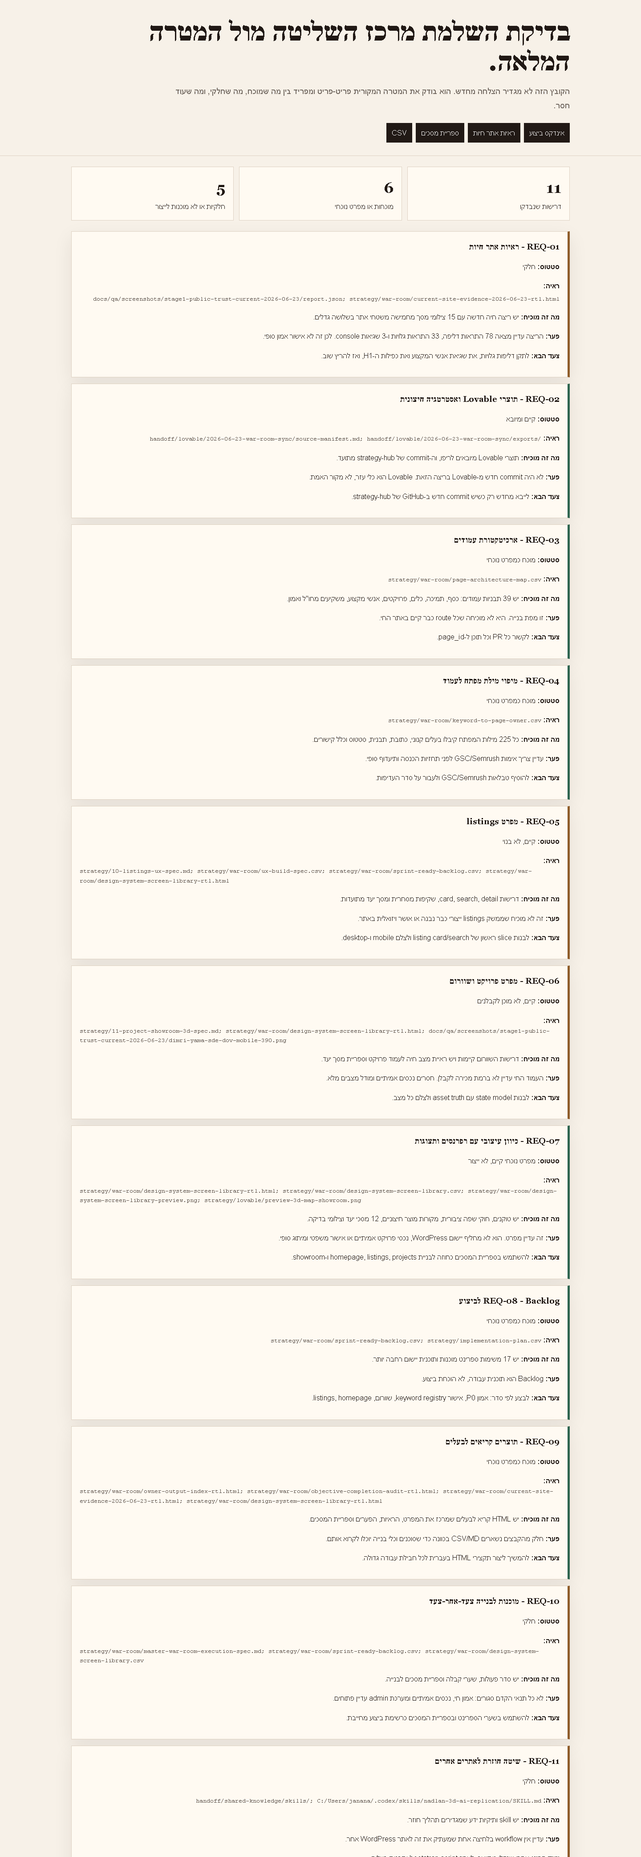
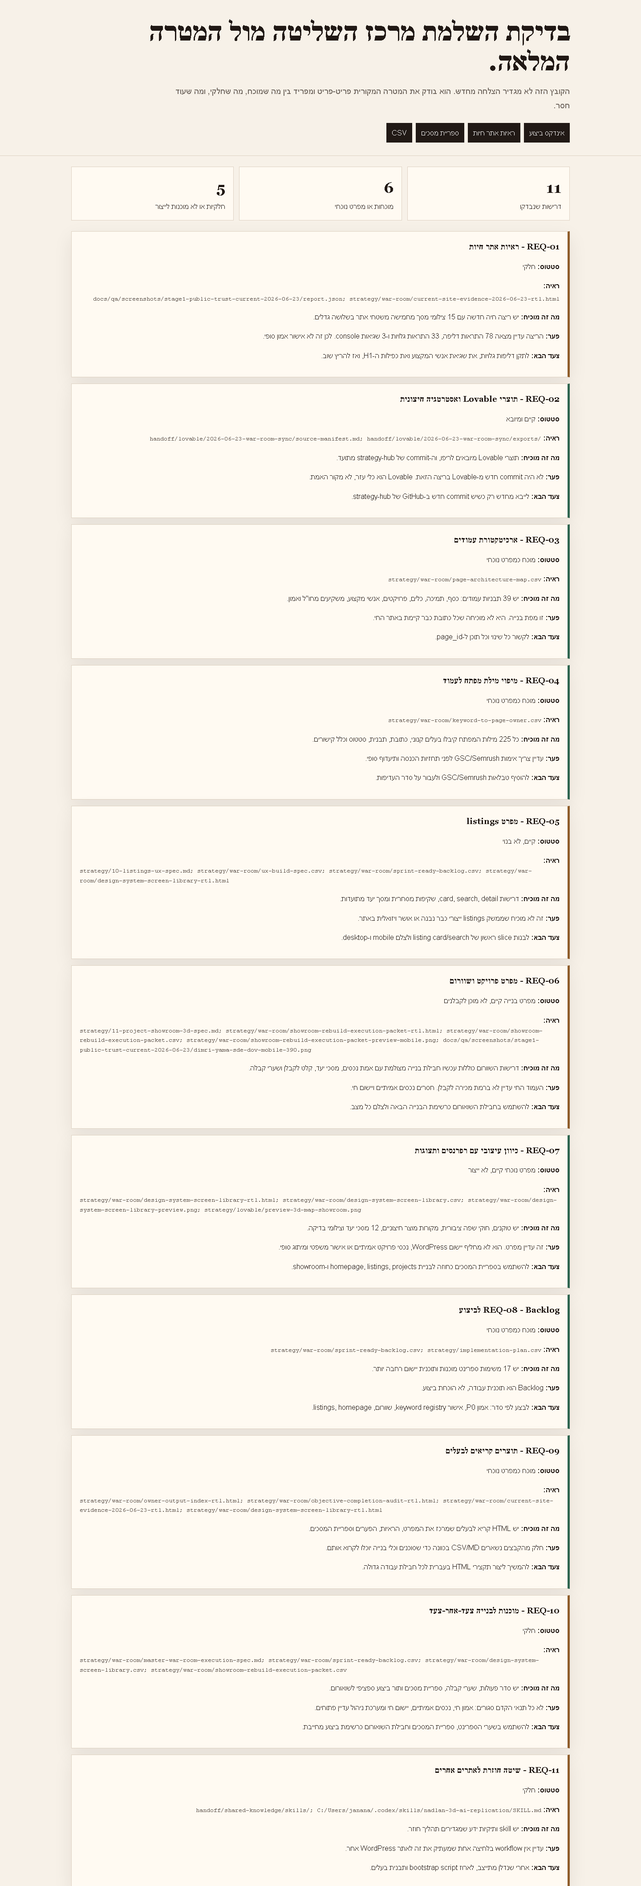
docs: add showroom rebuild execution packet

diff --git a/strategy/war-room/objective-completion-audit-rtl.html b/strategy/war-room/objective-completion-audit-rtl.html
@@ -1,11 +1,12 @@
-<!doctype html><html lang="he" dir="rtl"><head><meta charset="utf-8"><meta name="viewport" content="width=device-width, initial-scale=1"><title>בדיקת השלמת מרכז השליטה</title><style>:root{--paper:#f7f1e8;--ink:#211915;--muted:#746b63;--line:#ded2c3;--card:#fffaf2;--ok:#2f654f;--warn:#8f5d2a}*{box-sizing:border-box}body{margin:0;background:var(--paper);color:var(--ink);font-family:Arial,'Noto Sans Hebrew',sans-serif;line-height:1.65}.wrap{width:min(1120px,calc(100% - 28px));margin:auto}header{padding:36px 0 24px;border-bottom:1px solid var(--line)}h1{font-family:Georgia,'Times New Roman',serif;font-size:clamp(34px,5vw,64px);line-height:1.05;margin:0 0 14px}.lead{color:var(--muted);font-size:19px;max-width:920px}.summary{display:grid;grid-template-columns:repeat(3,1fr);gap:12px;margin:24px 0}.box{background:var(--card);border:1px solid var(--line);padding:18px}.box b{font-size:34px;font-family:Georgia,'Times New Roman',serif}.req{background:var(--card);border:1px solid var(--line);padding:18px;margin:14px 0;box-shadow:0 14px 40px rgba(44,31,20,.08)}.req.ok{border-inline-start:5px solid var(--ok)}.req.warn{border-inline-start:5px solid var(--warn)}h2,h3{font-family:Georgia,'Times New Roman',serif;margin:0 0 10px}code{direction:ltr;unicode-bidi:embed;display:inline-block;max-width:100%;overflow-wrap:anywhere;color:#5f554e}.links a{display:inline-block;background:#211915;color:#fff;padding:9px 12px;margin:5px 0 5px 8px;text-decoration:none}@media(max-width:760px){.summary{grid-template-columns:1fr}}</style></head><body><header><div class="wrap"><h1>בדיקת השלמת מרכז השליטה מול המטרה המלאה.</h1><p class="lead">הקובץ הזה לא מגדיר הצלחה מחדש. הוא בודק את המטרה המקורית פריט-פריט ומפריד בין מה שמוכח, מה שחלקי, ומה שעוד חסר.</p><div class="links"><a href="owner-output-index-rtl.html">אינדקס ביצוע</a><a href="current-site-evidence-2026-06-23-rtl.html">ראיות אתר חיות</a><a href="design-system-screen-library-rtl.html">ספריית מסכים</a><a href="objective-completion-audit.csv">CSV</a></div></div></header><main class="wrap"><div class="summary"><div class="box"><b>11</b><br>דרישות שנבדקו</div><div class="box"><b>6</b><br>מוכחות או מפרט נוכחי</div><div class="box"><b>5</b><br>חלקיות או לא מוכנות לייצור</div></div><article class='req warn'><h3>REQ-01 - ראיות אתר חיות</h3><p><b>סטטוס:</b> חלקי</p><p><b>ראיה:</b> <code>docs/qa/screenshots/stage1-public-trust-current-2026-06-23/report.json; strategy/war-room/current-site-evidence-2026-06-23-rtl.html</code></p><p><b>מה זה מוכיח:</b> יש ריצה חיה חדשה עם 15 צילומי מסך מחמישה משטחי אתר בשלושה גדלים.</p><p><b>פער:</b> הריצה עדיין מצאה 78 התראות דליפה, 33 התראות גלויות ו-3 שגיאות console. לכן זה לא אישור אמון סופי.</p><p><b>צעד הבא:</b> לתקן דליפות גלויות, את שגיאת אנשי המקצוע ואת כפילות ה-H1, ואז להריץ שוב.</p></article>
+<!doctype html><html lang="he" dir="rtl"><head><meta charset="utf-8"><meta name="viewport" content="width=device-width, initial-scale=1"><title>בדיקת השלמת מרכז השליטה</title><style>:root{--paper:#f7f1e8;--ink:#211915;--muted:#746b63;--line:#ded2c3;--card:#fffaf2;--ok:#2f654f;--warn:#8f5d2a}*{box-sizing:border-box}body{margin:0;background:var(--paper);color:var(--ink);font-family:Arial,'Noto Sans Hebrew',sans-serif;line-height:1.65}.wrap{width:min(1120px,calc(100% - 28px));margin:auto}header{padding:36px 0 24px;border-bottom:1px solid var(--line)}h1{font-family:Georgia,'Times New Roman',serif;font-size:clamp(34px,5vw,64px);line-height:1.05;margin:0 0 14px}.intro{color:var(--muted);font-size:19px;max-width:920px}.summary{display:grid;grid-template-columns:repeat(3,1fr);gap:12px;margin:24px 0}.box{background:var(--card);border:1px solid var(--line);padding:18px}.box b{font-size:34px;font-family:Georgia,'Times New Roman',serif}.req{background:var(--card);border:1px solid var(--line);padding:18px;margin:14px 0;box-shadow:0 14px 40px rgba(44,31,20,.08)}.req.ok{border-inline-start:5px solid var(--ok)}.req.warn{border-inline-start:5px solid var(--warn)}h2,h3{font-family:Georgia,'Times New Roman',serif;margin:0 0 10px}code{direction:ltr;unicode-bidi:embed;display:inline-block;max-width:100%;overflow-wrap:anywhere;color:#5f554e}.links a{display:inline-block;background:#211915;color:#fff;padding:9px 12px;margin:5px 0 5px 8px;text-decoration:none}@media(max-width:760px){.summary{grid-template-columns:1fr}}</style></head><body><header><div class="wrap"><h1>בדיקת השלמת מרכז השליטה מול המטרה המלאה.</h1><p class="intro">הקובץ הזה לא מגדיר הצלחה מחדש. הוא בודק את המטרה המקורית פריט-פריט ומפריד בין מה שמוכח, מה שחלקי, ומה שעוד חסר.</p><div class="links"><a href="owner-output-index-rtl.html">אינדקס ביצוע</a><a href="current-site-evidence-2026-06-23-rtl.html">ראיות אתר חיות</a><a href="design-system-screen-library-rtl.html">ספריית מסכים</a><a href="objective-completion-audit.csv">CSV</a></div></div></header><main class="wrap"><div class="summary"><div class="box"><b>11</b><br>דרישות שנבדקו</div><div class="box"><b>6</b><br>מוכחות או מפרט נוכחי</div><div class="box"><b>5</b><br>חלקיות או לא מוכנות לייצור</div></div><article class='req warn'><h3>REQ-01 - ראיות אתר חיות</h3><p><b>סטטוס:</b> חלקי</p><p><b>ראיה:</b> <code>docs/qa/screenshots/stage1-public-trust-current-2026-06-23/report.json; strategy/war-room/current-site-evidence-2026-06-23-rtl.html</code></p><p><b>מה זה מוכיח:</b> יש ריצה חיה חדשה עם 15 צילומי מסך מחמישה משטחי אתר בשלושה גדלים.</p><p><b>פער:</b> הריצה עדיין מצאה 78 התראות דליפה, 33 התראות גלויות ו-3 שגיאות console. לכן זה לא אישור אמון סופי.</p><p><b>צעד הבא:</b> לתקן דליפות גלויות, את שגיאת אנשי המקצוע ואת כפילות ה-H1, ואז להריץ שוב.</p></article>
 <article class='req ok'><h3>REQ-02 - תוצרי Lovable ואסטרטגיה חיצונית</h3><p><b>סטטוס:</b> קיים ומיובא</p><p><b>ראיה:</b> <code>handoff/lovable/2026-06-23-war-room-sync/source-manifest.md; handoff/lovable/2026-06-23-war-room-sync/exports/</code></p><p><b>מה זה מוכיח:</b> תוצרי Lovable מיובאים לריפו, וה-commit של strategy-hub מתועד.</p><p><b>פער:</b> לא היה commit חדש מ-Lovable בריצה הזאת. Lovable הוא כלי עזר, לא מקור האמת.</p><p><b>צעד הבא:</b> לייבא מחדש רק כשיש commit חדש ב-GitHub של strategy-hub.</p></article>
-<article class='req ok'><h3>REQ-03 - ארכיטקטורת עמודים</h3><p><b>סטטוס:</b> מוכח כמפרט נוכחי</p><p><b>ראיה:</b> <code>strategy/war-room/page-architecture-map.csv</code></p><p><b>מה זה מוכיח:</b> יש 39 תבניות עמודים: כסף, תמיכה, כלים, פרויקטים, אנשי מקצוע, משקיעים מחו&quot;ל ואמון.</p><p><b>פער:</b> זו מפת בנייה. היא לא מוכיחה שכל route כבר קיים באתר החי.</p><p><b>צעד הבא:</b> לקשור כל PR וכל תוכן ל-page_id.</p></article>
+<article class='req ok'><h3>REQ-03 - ארכיטקטורת עמודים</h3><p><b>סטטוס:</b> מוכח כמפרט נוכחי</p><p><b>ראיה:</b> <code>strategy/war-room/page-architecture-map.csv</code></p><p><b>מה זה מוכיח:</b> יש 39 תבניות עמודים: כסף, תמיכה, כלים, פרויקטים, אנשי מקצוע, משקיעים מחו&quot;ל ואמון.</p><p><b>פער:</b> זו מפת בנייה. היא לא מוכיחה שכל כתובת כבר קיימת באתר החי.</p><p><b>צעד הבא:</b> לקשור כל שינוי וכל תוכן ל-page_id.</p></article>
 <article class='req ok'><h3>REQ-04 - מיפוי מילת מפתח לעמוד</h3><p><b>סטטוס:</b> מוכח כמפרט נוכחי</p><p><b>ראיה:</b> <code>strategy/war-room/keyword-to-page-owner.csv</code></p><p><b>מה זה מוכיח:</b> כל 225 מילות המפתח קיבלו בעלים קנוני, כתובת, תבנית, סטטוס וכלל קישורים.</p><p><b>פער:</b> עדיין צריך אימות GSC/Semrush לפני תחזיות הכנסה ותיעדוף סופי.</p><p><b>צעד הבא:</b> להוסיף טבלאות GSC/Semrush ולעבור על סדר העדיפות.</p></article>
 <article class='req warn'><h3>REQ-05 - מפרט listings</h3><p><b>סטטוס:</b> קיים, לא בנוי</p><p><b>ראיה:</b> <code>strategy/10-listings-ux-spec.md; strategy/war-room/ux-build-spec.csv; strategy/war-room/sprint-ready-backlog.csv; strategy/war-room/design-system-screen-library-rtl.html</code></p><p><b>מה זה מוכיח:</b> דרישות card, search, detail, שקיפות מסחרית ומסך יעד מתועדות.</p><p><b>פער:</b> זה לא מוכיח שממשק listings ייצורי כבר נבנה או אושר ויזואלית באתר.</p><p><b>צעד הבא:</b> לבנות slice ראשון של listing card/search ולצלם mobile ו-desktop.</p></article>
-<article class='req warn'><h3>REQ-06 - מפרט פרויקט ושוורום</h3><p><b>סטטוס:</b> קיים, לא מוכן לקבלנים</p><p><b>ראיה:</b> <code>strategy/11-project-showroom-3d-spec.md; strategy/war-room/design-system-screen-library-rtl.html; docs/qa/screenshots/stage1-public-trust-current-2026-06-23/dimri-yama-sde-dov-mobile-390.png</code></p><p><b>מה זה מוכיח:</b> דרישות השוורום קיימות ויש ראיית מצב חיה לעמוד פרויקט וספריית מסך יעד.</p><p><b>פער:</b> העמוד החי עדיין לא ברמת מכירה לקבלן. חסרים נכסים אמיתיים ומודל מצבים מלא.</p><p><b>צעד הבא:</b> לבנות state model עם asset truth ולצלם כל מצב.</p></article>
+<article class='req warn'><h3>REQ-06 - מפרט פרויקט ושוורום</h3><p><b>סטטוס:</b> מפרט בנייה קיים, לא מוכן לקבלנים</p><p><b>ראיה:</b> <code>strategy/11-project-showroom-3d-spec.md; strategy/war-room/showroom-rebuild-execution-packet-rtl.html; strategy/war-room/showroom-rebuild-execution-packet.csv; strategy/war-room/showroom-rebuild-execution-packet-preview-mobile.png; docs/qa/screenshots/stage1-public-trust-current-2026-06-23/dimri-yama-sde-dov-mobile-390.png</code></p><p><b>מה זה מוכיח:</b> דרישות השוורום כוללות עכשיו חבילת בנייה מצולמת עם אמת נכסים, מסכי יעד, קלט לקבלן ושערי קבלה.</p><p><b>פער:</b> העמוד החי עדיין לא ברמת מכירה לקבלן. חסרים נכסים אמיתיים ויישום חי.</p><p><b>צעד הבא:</b> להשתמש בחבילת השואורום כרשימת הבנייה הבאה ולצלם כל מצב.</p></article>
 <article class='req ok'><h3>REQ-07 - כיוון עיצובי עם רפרנסים ותצוגות</h3><p><b>סטטוס:</b> מפרט נוכחי קיים, לא ייצור</p><p><b>ראיה:</b> <code>strategy/war-room/design-system-screen-library-rtl.html; strategy/war-room/design-system-screen-library.csv; strategy/war-room/design-system-screen-library-preview.png; strategy/lovable/preview-3d-map-showroom.png</code></p><p><b>מה זה מוכיח:</b> יש טוקנים, חוקי שפה ציבורית, מקורות מוצר חיצוניים, 12 מסכי יעד וצילומי בדיקה.</p><p><b>פער:</b> זה עדיין מפרט. הוא לא מחליף יישום WordPress, נכסי פרויקט אמיתיים או אישור משפטי ומיתוג סופי.</p><p><b>צעד הבא:</b> להשתמש בספריית המסכים כחוזה לבניית homepage, listings, projects ו-showroom.</p></article>
 <article class='req ok'><h3>REQ-08 - Backlog לביצוע</h3><p><b>סטטוס:</b> מוכח כמפרט נוכחי</p><p><b>ראיה:</b> <code>strategy/war-room/sprint-ready-backlog.csv; strategy/implementation-plan.csv</code></p><p><b>מה זה מוכיח:</b> יש 17 משימות ספרינט מוכנות ותוכנית יישום רחבה יותר.</p><p><b>פער:</b> Backlog הוא תוכנית עבודה, לא הוכחת ביצוע.</p><p><b>צעד הבא:</b> לבצע לפי סדר: אמון P0, אישור keyword registry, שוורום, listings, homepage.</p></article>
 <article class='req ok'><h3>REQ-09 - תוצרים קריאים לבעלים</h3><p><b>סטטוס:</b> מוכח כמפרט נוכחי</p><p><b>ראיה:</b> <code>strategy/war-room/owner-output-index-rtl.html; strategy/war-room/objective-completion-audit-rtl.html; strategy/war-room/current-site-evidence-2026-06-23-rtl.html; strategy/war-room/design-system-screen-library-rtl.html</code></p><p><b>מה זה מוכיח:</b> יש HTML קריא לבעלים שמרכז את המפרט, הראיות, הפערים וספריית המסכים.</p><p><b>פער:</b> חלק מהקבצים נשארים CSV/MD בכוונה כדי שסוכנים וכלי בנייה יוכלו לקרוא אותם.</p><p><b>צעד הבא:</b> להמשיך ליצור תקצירי HTML בעברית לכל חבילת עבודה גדולה.</p></article>
-<article class='req warn'><h3>REQ-10 - מוכנות לבנייה צעד-אחר-צעד</h3><p><b>סטטוס:</b> חלקי</p><p><b>ראיה:</b> <code>strategy/war-room/master-war-room-execution-spec.md; strategy/war-room/sprint-ready-backlog.csv; strategy/war-room/design-system-screen-library.csv</code></p><p><b>מה זה מוכיח:</b> יש סדר פעולות, שערי קבלה וספריית מסכים לבנייה.</p><p><b>פער:</b> לא כל תנאי הקדם סגורים: אמון חי, נכסים אמיתיים ומערכת admin עדיין פתוחים.</p><p><b>צעד הבא:</b> להשתמש בשערי הספרינט ובספריית המסכים כרשימת ביצוע מחייבת.</p></article>
+<article class='req warn'><h3>REQ-10 - מוכנות לבנייה צעד-אחר-צעד</h3><p><b>סטטוס:</b> חלקי</p><p><b>ראיה:</b> <code>strategy/war-room/master-war-room-execution-spec.md; strategy/war-room/sprint-ready-backlog.csv; strategy/war-room/design-system-screen-library.csv; strategy/war-room/showroom-rebuild-execution-packet.csv</code></p><p><b>מה זה מוכיח:</b> יש סדר פעולות, שערי קבלה, ספריית מסכים ותור ביצוע ספציפי לשואורום.</p><p><b>פער:</b> לא כל תנאי הקדם סגורים: אמון חי, נכסים אמיתיים, יישום חי ומערכת ניהול עדיין פתוחים.</p><p><b>צעד הבא:</b> להשתמש בשערי הספרינט, ספריית המסכים וחבילת השואורום כרשימת ביצוע מחייבת.</p></article>
 <article class='req warn'><h3>REQ-11 - שיטה חוזרת לאתרים אחרים</h3><p><b>סטטוס:</b> חלקי</p><p><b>ראיה:</b> <code>handoff/shared-knowledge/skills/; C:/Users/janana/.codex/skills/nadlan-3d-ai-replication/SKILL.md</code></p><p><b>מה זה מוכיח:</b> יש skill ותיקיות ידע שמגדירים תהליך חוזר.</p><p><b>פער:</b> עדיין אין workflow בלחיצה אחת שמעתיק את זה לאתר WordPress אחר.</p><p><b>צעד הבא:</b> אחרי שנדלן מתייצב, לארוז bootstrap script ותבנית בעלים.</p></article></main></body></html>
+

diff --git a/strategy/war-room/showroom-rebuild-execution-packet-rtl.html b/strategy/war-room/showroom-rebuild-execution-packet-rtl.html
@@ -1,0 +1,193 @@
+<!doctype html>
+<html lang="he" dir="rtl">
+<head>
+  <meta charset="utf-8">
+  <meta name="viewport" content="width=device-width, initial-scale=1">
+  <title>NadLan - חבילת בנייה לשואורום פרויקט</title>
+  <style>
+    :root{
+      --paper:#f7f1e8;
+      --panel:#fffaf2;
+      --ink:#211915;
+      --muted:#74685f;
+      --line:#e2d6c7;
+      --green:#0f332c;
+      --gold:#a7793b;
+      --red:#8f2e24;
+      --soft:#efe5d7;
+    }
+    *{box-sizing:border-box}
+    body{margin:0;background:var(--paper);color:var(--ink);font-family:Arial,"Noto Sans Hebrew",sans-serif;line-height:1.75}
+    .wrap{max-width:1180px;margin:0 auto;padding:42px 24px 72px}
+    header{padding:48px 0 34px;border-bottom:1px solid var(--line);text-align:center}
+    .eyebrow{font-size:13px;color:var(--gold);font-weight:700;letter-spacing:0}
+    h1{font-family:Georgia,"Times New Roman",serif;font-size:clamp(34px,6vw,76px);line-height:1.02;margin:18px 0 16px;letter-spacing:0}
+    h2{font-family:Georgia,"Times New Roman",serif;font-size:clamp(26px,3vw,42px);line-height:1.16;margin:0 0 18px;letter-spacing:0}
+    h3{font-size:20px;margin:0 0 10px}
+    p{margin:0 0 14px}
+    a{color:var(--green);font-weight:700}
+    .intro{max-width:820px;margin:0 auto;color:var(--muted);font-size:18px}
+    .stats{display:grid;grid-template-columns:repeat(4,1fr);gap:12px;margin:28px 0}
+    .stat{background:var(--panel);border:1px solid var(--line);padding:20px;text-align:center}
+    .stat strong{display:block;font-family:Georgia,"Times New Roman",serif;font-size:38px}
+    section{margin-top:28px;background:var(--panel);border:1px solid var(--line);padding:28px}
+    .grid{display:grid;grid-template-columns:1fr 1fr;gap:18px}
+    .three{display:grid;grid-template-columns:repeat(3,1fr);gap:18px}
+    .card{background:#fffdf8;border:1px solid var(--line);padding:20px;min-height:100%}
+    .ok{border-right:5px solid var(--green)}
+    .warn{border-right:5px solid var(--gold)}
+    .bad{border-right:5px solid var(--red)}
+    .shot{background:#fff;border:1px solid var(--line);padding:12px}
+    .shot img{display:block;width:100%;height:auto;border:1px solid var(--line);background:#f4eadc}
+    .shot img.crop{height:620px;object-fit:cover;object-position:top}
+    .caption{font-size:14px;color:var(--muted);margin-top:10px}
+    .decision{display:grid;grid-template-columns:1.2fr .8fr;gap:22px;align-items:start}
+    .flow{display:grid;grid-template-columns:repeat(5,1fr);gap:10px;margin-top:14px}
+    .step{border:1px solid var(--line);background:var(--soft);padding:14px;min-height:112px}
+    .step b{display:block;color:var(--green);margin-bottom:6px}
+    table{width:100%;border-collapse:collapse;background:#fffdf8}
+    th,td{border:1px solid var(--line);padding:12px;text-align:right;vertical-align:top}
+    th{background:var(--soft);font-weight:800}
+    .pill{display:inline-block;border:1px solid var(--line);background:#fffdf8;padding:5px 9px;margin:3px;font-size:13px}
+    .source-list{display:grid;grid-template-columns:repeat(3,1fr);gap:10px}
+    .source-list a{display:block;border:1px solid var(--line);background:#fffdf8;padding:12px;text-decoration:none}
+    .small{font-size:14px;color:var(--muted)}
+    @media(max-width:760px){
+      .wrap{padding:24px 16px 48px}
+      header{text-align:right;padding-top:28px}
+      .stats,.grid,.three,.decision,.flow,.source-list{grid-template-columns:1fr}
+      section{padding:18px}
+      .step{min-height:auto}
+      table{font-size:14px}
+      th,td{padding:9px}
+      .shot img.crop{height:760px}
+      table,thead,tbody,tr,td{display:block;width:100%}
+      thead{display:none}
+      tr{margin-bottom:12px;border:1px solid var(--line);background:#fffdf8}
+      td{border:0;border-bottom:1px solid var(--line)}
+      td:last-child{border-bottom:0}
+      td[data-label]::before{content:attr(data-label);display:block;font-weight:800;color:var(--green);margin-bottom:4px}
+    }
+  </style>
+</head>
+<body>
+  <div class="wrap">
+    <header>
+      <div class="eyebrow">2026-06-23 - NadLan - שואורום פרויקטים</div>
+      <h1>חבילת בנייה לשואורום שמוכר פרויקט, לא דמו.</h1>
+      <p class="intro">המטרה היא להפוך את השואורום למוצר שאפשר להראות לקבלן ולמשקיע: נכסים אמיתיים, מסע בחירת דירה, נוף, תכנון, סיור פנים, פנייה מסודרת, ושפה ציבורית נקייה. מה שאין לו מקור מאושר מוצג כחסר או כקונספט, לא כעובדה.</p>
+    </header>
+
+    <div class="stats">
+      <div class="stat"><strong>12</strong><span>שורות ביצוע</span></div>
+      <div class="stat"><strong>7</strong><span>מצבי צילום חובה</span></div>
+      <div class="stat"><strong>5</strong><span>טאבים לדירה</span></div>
+      <div class="stat"><strong>390</strong><span>שער מובייל</span></div>
+    </div>
+
+    <section>
+      <h2>מה ראינו בצילומים</h2>
+      <div class="grid">
+        <div class="shot">
+          <img class="crop" src="../../docs/qa/screenshots/stage1-public-trust-current-2026-06-23/dimri-yama-sde-dov-desktop-1440.png" alt="צילום חי של עמוד דימרי ימה">
+          <p class="caption">עמוד חי, חיתוך עליון של צילום מלא: יש עומק, תוכן וטפסים, אבל אזור השואורום עדיין מרגיש כמו מודול כבד ולא כמו חוויית מכירה מדויקת.</p>
+        </div>
+        <div class="shot">
+          <img class="crop" src="../../handoff/codex/2026-06-23-public-language-cleanup/screenshots/showroom-rainbow--he--desktop-1440.png" alt="צילום prototype אחרי ניקוי שפה">
+          <p class="caption">אב הטיפוס נקי יותר מבחינת שפה, אבל החזית סכמטית והמותג חלש. זה טוב כהוכחת מבנה, לא כמשטח מכירה לקבלן.</p>
+        </div>
+      </div>
+    </section>
+
+    <section>
+      <h2>החלטת מוצר</h2>
+      <div class="decision">
+        <div class="card ok">
+          <h3>הקו המחייב</h3>
+          <p>השואורום מציג רק אחד מארבעה מצבים ברורים: נכס רשמי, הדמיית קונספט מאושרת, מצב חסר נכסים, או מצב תקלה נקי. אין חזרה שקטה למגדל סכמטי, אין תמונות לא קשורות, ואין טענה שמידע הוא רשמי אם הוא לא.</p>
+          <span class="pill">הדמיה רשמית</span>
+          <span class="pill">הדמיית קונספט</span>
+          <span class="pill">ממתין להעלאה</span>
+          <span class="pill">לא זמין כרגע</span>
+        </div>
+        <div class="card bad">
+          <h3>מה לא עובר הלאה</h3>
+          <p>לא מעבירים למסך ציבורי מונחי קבצים, שמות פונטים, שפת בנייה, תגיות דירוג פנימיות, או תמונות שנראות כמו מלאי כללי. אם אין תמונת פרויקט אמיתית, עדיף מצב חסר אלגנטי מאשר תמונה מטעה.</p>
+        </div>
+      </div>
+    </section>
+
+    <section>
+      <h2>מסע השואורום החדש</h2>
+      <div class="flow">
+        <div class="step"><b>01 זהות</b>שם פרויקט, עיר, יזם, מקור, משפט אמינות קצר ופעולה ראשית אחת.</div>
+        <div class="step"><b>02 במה חזותית</b>מודל או חזית אמיתית. אם אין, מצב העלאה נקי עם רשימת חסרים לקבלן.</div>
+        <div class="step"><b>03 בחירת דירה</b>טבלת יחידות ופיקר חזותי. בחירה פותחת כרטיס דירה ברור.</div>
+        <div class="step"><b>04 עומק דירה</b>תכנון, נוף וסביבה, סיור פנים, עלויות ויועצים.</div>
+        <div class="step"><b>05 ליד</b>טופס או WhatsApp עם הקשר מלא: פרויקט, דירה, שפה, מקור ועניין.</div>
+      </div>
+    </section>
+
+    <section>
+      <h2>מצבי הדירה במובייל</h2>
+      <div class="grid">
+        <div class="shot">
+          <img class="crop" src="../../handoff/codex/2026-06-23-public-language-cleanup/screenshots/showroom-rainbow--he--unit-drawer--mobile-390.png" alt="בחירת דירה במובייל">
+          <p class="caption">המבנה הנכון: בחירה פותחת גיליון תחתון קריא, אבל צריך להחליף את השרטוט הסכמטי בנכס אמיתי או בקונספט מאושר.</p>
+        </div>
+        <div class="card warn">
+          <h3>שער מובייל</h3>
+          <p>ב־390px הבמה, כרטיס הדירה והפעולות חייבים להישאר בתוך רוחב המסך. אין כרטיס קבוע שמכסה את החזית. אין כפתור WhatsApp שמסתיר פוטר או טופס. כל יעד לחיצה לפחות 44px.</p>
+        </div>
+      </div>
+    </section>
+
+    <section>
+      <h2>מסכי יעד לבנייה</h2>
+      <table>
+        <thead>
+          <tr><th>מסך</th><th>מה המשתמש רואה</th><th>מה חייב להיות מאחורי הקלעים</th><th>בדיקת צילום</th></tr>
+        </thead>
+        <tbody>
+          <tr><td data-label="מסך">מסך ראשון</td><td data-label="מה המשתמש רואה">פרויקט, יזם, מיקום, במה חזותית ופעולה אחת.</td><td data-label="מאחורי הקלעים">מקור פרויקט, נכס חזותי, סטטוס נכס, נתוני פנייה.</td><td data-label="בדיקת צילום">1440 ו־390 לפני גלילה.</td></tr>
+          <tr><td data-label="מסך">בחירת דירה</td><td data-label="מה המשתמש רואה">יחידות זמינות עם מחיר, שטח, חדרים, קומה וסטטוס.</td><td data-label="מאחורי הקלעים">טבלת יחידות מובנית, מקור מחיר, מקור זמינות, מיפוי חזותי.</td><td data-label="בדיקת צילום">דירה נבחרת פתוחה בדסקטופ ובמובייל.</td></tr>
+          <tr><td data-label="מסך">נוף וסביבה</td><td data-label="מה המשתמש רואה">מפה או הסבר נקי שהמידע לא זמין.</td><td data-label="מאחורי הקלעים">טוקן מפה, קואורדינטות, כיוון דירה, נתוני סביבה.</td><td data-label="בדיקת צילום">מצב מפה פעילה ומצב מפה לא זמינה.</td></tr>
+          <tr><td data-label="מסך">סיור פנים</td><td data-label="מה המשתמש רואה">תוכנית, סיור, תמונות או הצעת ייעוץ.</td><td data-label="מאחורי הקלעים">קבצי תוכנית, סיור, תמונות, סטטוס אישור.</td><td data-label="בדיקת צילום">טאב פתוח במובייל בלי גלישה.</td></tr>
+          <tr><td data-label="מסך">פנייה</td><td data-label="מה המשתמש רואה">בקשת שיחה או WhatsApp כחלק מאותה חוויה.</td><td data-label="מאחורי הקלעים">מזהה פרויקט, מזהה דירה, שפה, מקור פנייה ומצב הנכס החזותי.</td><td data-label="בדיקת צילום">פוטר עם פעולה גלויה בלי כיסוי.</td></tr>
+        </tbody>
+      </table>
+    </section>
+
+    <section>
+      <h2>חבילת נכסים לקבלן</h2>
+      <div class="three">
+        <div class="card ok"><h3>חובה</h3><p>לוגו יזם, שם פרויקט, עיר, מיקום, איש קשר, תמונת פרויקט או הדמיה רשמית, טבלת יחידות, סטטוס זמינות, מקור מחיר.</p></div>
+        <div class="card warn"><h3>רצוי</h3><p>מודל תלת ממד, חזית עם מיפוי דירות, תוכניות דירה, סיור פנים, כיוון נוף, תמונות סביבתיות, סרטון.</p></div>
+        <div class="card bad"><h3>אסור להמציא</h3><p>זמינות, מחיר, תמונת בניין, נוף מהדירה, סיור פנים, או שיוך דירה לחזית בלי מקור או אישור.</p></div>
+      </div>
+    </section>
+
+    <section>
+      <h2>קישורי מקור למוצר</h2>
+      <div class="source-list">
+        <a href="https://www.zillow.com/3d-home/">Zillow 3D Home</a>
+        <a href="https://www.zillow.com/agents/showcase/">Zillow Showcase</a>
+        <a href="https://www.zillow.com/news/zillow-showcase-brings-listings-to-life/">Zillow SkyTour</a>
+        <a href="https://matterport.com/">Matterport</a>
+        <a href="https://www.homes.com/solutions/matterport">Homes.com Matterport</a>
+        <a href="https://www.jamesedition.com/real_estate">JamesEdition</a>
+      </div>
+      <p class="small">המקורות משמשים כנקודת ייחוס למבנה מוצר: סיור, תוכנית, חזית, סביבת נכס, שפה פרימיום ואמון בינלאומי. הם לא מקור לתמונות של פרויקטים ספציפיים.</p>
+    </section>
+
+    <section>
+      <h2>בדיקת קבלה לכל שינוי</h2>
+      <div class="three">
+        <div class="card"><h3>צילום</h3><p>כל שינוי בשואורום חייב לשמור צילום 1440, 390, דירה נבחרת, מצב חסר נכס, מצב תקלה ופוטר עם CTA.</p></div>
+        <div class="card"><h3>טקסט</h3><p>סריקת טקסט מרונדר חייבת לאתר שפה פנימית, מונחי בנייה, תוויות דירוג פנימיות ומילים שלא אמורות להופיע ללקוח.</p></div>
+        <div class="card"><h3>אמת נכסים</h3><p>הצילום חייב להוכיח שהמסך לא מציג נכס כאמיתי בלי מקור. אם חסר נכס, זה חייב להיות ברור ונקי.</p></div>
+      </div>
+    </section>
+  </div>
+</body>
+</html>

diff --git a/strategy/war-room/owner-output-index-rtl.html b/strategy/war-room/owner-output-index-rtl.html
@@ -94,8 +94,8 @@
       <p class="lead">זהו אינדקס קריא שמרכז את הקבצים החדשים שנוצרו לביצוע. הוא לא מחליף בדיקות חיות באתר, ולא טוען שהשוורום מוכן למכירה לקבלנים לפני שיש נכסים אמיתיים וצילומי QA.</p>
       <div class="meta">
         <span class="pill">branch: strategy/nadlan-seo-product-war-plan</span>
-        <span class="pill">commit בסיס: 2c6620e</span>
-        <span class="pill">עודכן: 2026-06-23 14:38</span>
+        <span class="pill">commit: ראו GitHub</span>
+        <span class="pill">עודכן: 2026-06-23</span>
       </div>
     </div>
   </header>
@@ -105,7 +105,7 @@
       <div class="stat"><b>39</b><span>תבניות עמודים בארכיטקטורה</span></div>
       <div class="stat"><b>15</b><span>משטחי UX לבנייה</span></div>
       <div class="stat"><b>17</b><span>משימות ביצוע מוכנות לספרינט</span></div>
-      <div class="stat"><b>19</b><span>פריטי ראיות ומגבלות</span></div>
+      <div class="stat"><b>20</b><span>פריטי ראיות ומגבלות</span></div>
     </div>
     <div class="grid">
       <div>
@@ -129,6 +129,7 @@
           <div class="links">
             <a class="linkrow" href="nadlan-war-room-spec-rtl.html"><span><strong>מפרט War Room קריא</strong><small>מפרט הבנייה הקיים בשפה קריאה.</small></span><span class="open">פתח</span></a>
             <a class="linkrow" href="design-system-screen-library-rtl.html"><span><strong>ספריית מסכים ועיצוב</strong><small>טוקנים, שפת מוצר, מקורות חיצוניים ו-12 מסכי יעד לבנייה.</small></span><span class="open">פתח</span></a>
+            <a class="linkrow" href="showroom-rebuild-execution-packet-rtl.html"><span><strong>חבילת בנייה לשואורום</strong><small>צילומי מצב, אמת נכסים, מסכי יעד, קלט לקבלן ושערי צילום לשלב השואורום הבא.</small></span><span class="open">פתח</span></a>
             <a class="linkrow" href="objective-completion-audit-rtl.html"><span><strong>בדיקת השלמת המטרה</strong><small>בדיקה מול המטרה המלאה: מה מוכח, מה חלקי, ומה עדיין חסר.</small></span><span class="open">פתח</span></a>
             <a class="linkrow" href="current-site-evidence-2026-06-23-rtl.html"><span><strong>ראיות אתר חיות</strong><small>15 צילומי מסך חיים מהאתר הציבורי, עם סיכום דליפות, שגיאות וחריגות רוחב.</small></span><span class="open">פתח</span></a>
             <a class="linkrow" href="full-war-room-gap-map-rtl.html"><span><strong>מפת פערים מלאה</strong><small>מפת פערים מלאה של מה קיים ומה חסר.</small></span><span class="open">פתח</span></a>

diff --git a/strategy/war-room/showroom-rebuild-execution-packet.md b/strategy/war-room/showroom-rebuild-execution-packet.md
@@ -1,0 +1,95 @@
+# Showroom Rebuild Execution Packet
+
+Date: 2026-06-23
+
+Purpose: turn the existing showroom research, Lovable prototype, and live screenshots into a build-ready packet for the next NadLan project showroom slice.
+
+## Current Evidence Read
+
+- Live Dimri public page has real page depth and commercial structure, but the showroom is too heavy and not yet a focused premium sales experience.
+- Lovable prototype after public-language cleanup proves the state-machine idea and mobile drawer discipline, but it is not contractor-ready because the visual assets are still schematic and the brand signal is weak.
+- Existing strategy files already define the core rule: no silent fallback, no fake facade, no dead buttons, no stacking.
+
+## Product Decision
+
+The next showroom build should not polish the current stacked experience. It should rebuild the project showroom as a strict asset-truth product:
+
+1. Official model or official facade exists: show it as the primary buyer surface.
+2. Approved concept exists: show it as concept only, not as finished project proof.
+3. No approved visual asset exists: show a premium missing-asset state and a contractor upload checklist.
+4. Broken model, broken map, or broken tour: show a clean unavailable state and log it. Do not resurrect old schematic facades.
+
+## Public Language Rules
+
+Public Hebrew should use:
+
+- סיור בפרויקט
+- בחירת דירה
+- תכנון הדירה
+- נוף וסביבה
+- סיור פנים
+- בדיקת רכישה
+- המודל ממתין להעלאה
+- הדמיה רשמית
+- הדמיית קונספט
+
+Public UI should not expose:
+
+- file formats
+- internal ranking labels
+- font names
+- implementation terms
+- prompt wording
+- unsupported claims that a model, price, availability, or view is official
+
+## Target Screen Order
+
+Desktop:
+
+1. Project identity strip.
+2. Large visual stage.
+3. Side unit list or compact unit selector.
+4. Selected unit card docked beside or below the stage.
+5. Unit tabs: plan, view, interior, costs, contact.
+6. Long SEO body, tables, FAQ, and related pages below.
+
+Mobile 390:
+
+1. Project identity.
+2. Visual stage with stable height.
+3. Unit selector.
+4. Selected unit bottom sheet.
+5. Tabs become stacked or scroll-safe.
+6. Sticky CTA must not cover footer, stage, or selected unit.
+
+## Build Backlog
+
+Use `showroom-rebuild-execution-packet.csv` as the implementation queue. The highest-risk first slices are:
+
+- SR-001 asset truth
+- SR-003 visual stage
+- SR-004 unit selector
+- SR-008 lead capture
+- SR-010 public language
+
+## Screenshot Gates
+
+Every implementation PR must save screenshots for:
+
+- desktop 1440 first viewport
+- mobile 390 first viewport
+- selected unit open on mobile
+- missing asset state
+- broken model state
+- map unavailable state
+- footer with sticky CTA visible
+
+## External Product References
+
+- Zillow 3D Home: virtual tours and interactive floor plans as listing assets.
+- Zillow Showcase: premium listing treatment and elevated presentation for sellers.
+- Zillow SkyTour: exterior angle, elevation, and surrounding context.
+- Matterport: 3D tours, floor plans, photos, and property marketing assets.
+- Homes.com Matterport: digital twin plus floor-plan touring.
+- JamesEdition: curated international luxury real estate pattern.
+

diff --git a/strategy/war-room/README.md b/strategy/war-room/README.md
@@ -7,6 +7,8 @@ Primary owner-facing artifacts:
 - `owner-output-index-rtl.html` - Hebrew RTL index for the current execution layer, with links to the key specs, CSVs, evidence, workbook, and screenshot references.
 - `design-system-screen-library-rtl.html` - Hebrew RTL design-system and screen-library report with tokens, product references, and 12 build surfaces.
 - `design-system-screen-library-visual-qa.md` - screenshot review note for the design-system screen library.
+- `showroom-rebuild-execution-packet-rtl.html` - Hebrew RTL showroom rebuild packet with live/prototype screenshots, asset-truth rules, target screens, contractor inputs, and screenshot gates.
+- `showroom-rebuild-execution-packet-visual-qa.md` - screenshot review note for the showroom rebuild packet.
 - `objective-completion-audit-rtl.html` - Hebrew RTL audit against the full war-room objective, showing what is proven, partial, or still missing.
 - `current-site-evidence-2026-06-23-rtl.html` - Hebrew RTL summary of the fresh live public-site screenshot run from 2026-06-23.
 - `current-site-and-objective-audit-visual-qa.md` - screenshot review note for the fresh public evidence and objective audit.
@@ -20,6 +22,8 @@ Structured artifacts:
 - `ux-build-spec.csv` - build-level UX requirements for homepage, listings, projects, professionals, tools, trust, and international investor surfaces.
 - `design-system-screen-library.csv` - structured screen library for brand, homepage, listings, projects, showroom, professionals, tools, international, contractor intake, and admin war room.
 - `design-system-screen-library.md` - detailed design system and implementation gate narrative.
+- `showroom-rebuild-execution-packet.csv` - structured showroom rebuild queue with asset-truth, visual-stage, unit-selection, map, interior, lead, performance, and SEO gates.
+- `showroom-rebuild-execution-packet.md` - implementation narrative for the next project showroom build slice.
 - `lovable-design-validation-prompt.md` - controlled no-spend prompt to use only if the owner chooses another Lovable review.
 - `keyword-to-page-owner.csv` - one canonical owner for every keyword row from the recovered Report 2 keyword universe.
 - `current-evidence-register.csv` - evidence, limitations, and next verification actions.

diff --git a/strategy/war-room/showroom-rebuild-execution-packet-visual-qa.md b/strategy/war-room/showroom-rebuild-execution-packet-visual-qa.md
@@ -1,0 +1,33 @@
+# Showroom Rebuild Execution Packet Visual QA
+
+Date: 2026-06-23
+
+Files reviewed:
+
+- `showroom-rebuild-execution-packet-rtl.html`
+- `showroom-rebuild-execution-packet-preview.png`
+- `showroom-rebuild-execution-packet-preview-mobile.png`
+
+Screenshots captured:
+
+- Desktop: `strategy/war-room/showroom-rebuild-execution-packet-preview.png`
+- Mobile 390px: `strategy/war-room/showroom-rebuild-execution-packet-preview-mobile.png`
+
+Visual readout:
+
+- Desktop layout is readable after cropping long evidence screenshots inside fixed-height frames.
+- Mobile layout is one column and does not require horizontal scrolling.
+- The target screen table converts into stacked cards on mobile, so the owner can read it at 390px.
+- The report uses real existing screenshots as evidence and does not present those screenshots as final production design.
+- The report states that the current live showroom and prototype are not contractor-ready.
+
+Language scan:
+
+- No exposed file-format label, internal ranking word, font-name leak, or em dash was found in the owner-facing HTML scan.
+- Public-facing technical terms were replaced with owner-readable Hebrew where practical.
+
+Remaining limits:
+
+- This is an execution packet, not a production implementation.
+- The target experience still needs real project assets, runtime code, and a fresh screenshot run after implementation.
+- Existing evidence screenshots remain visually weak because they document the current gap; the report labels them as gap evidence, not as final design.
